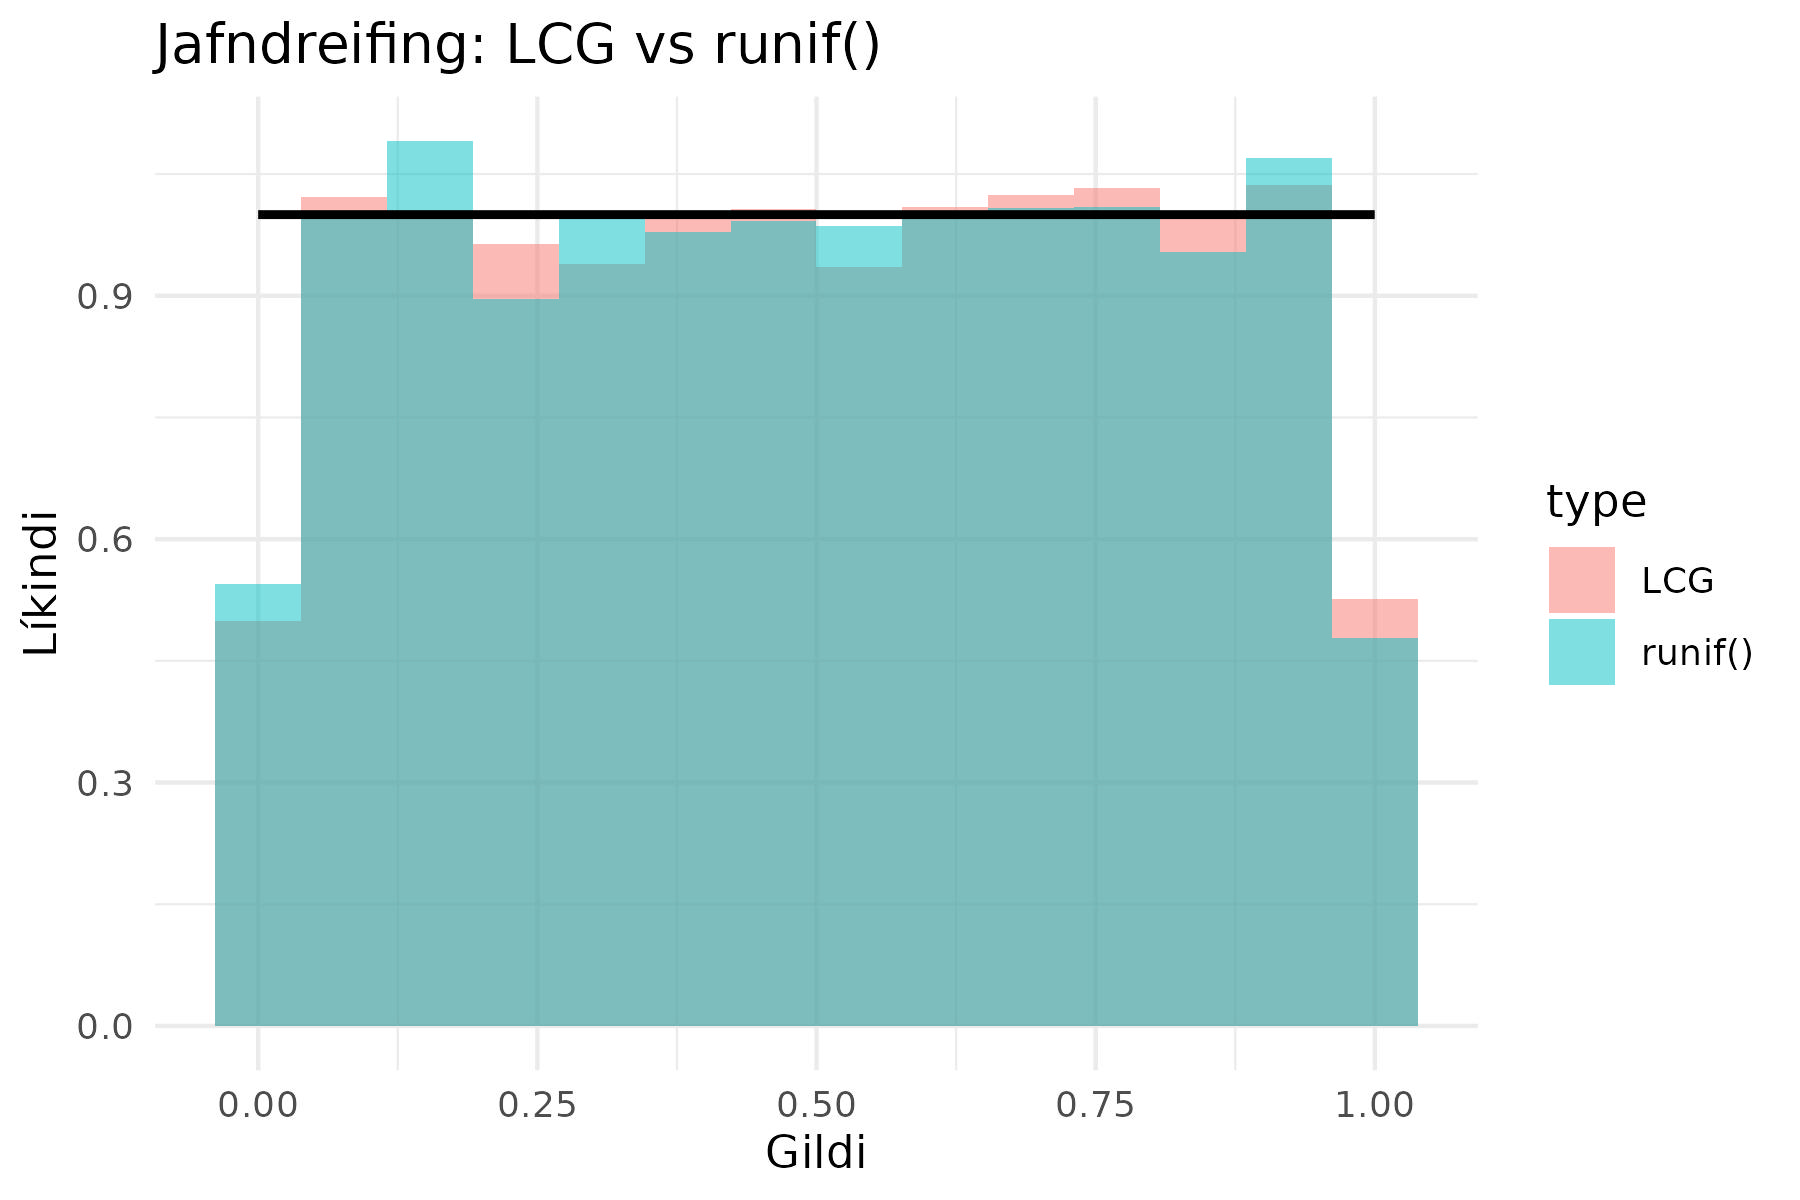
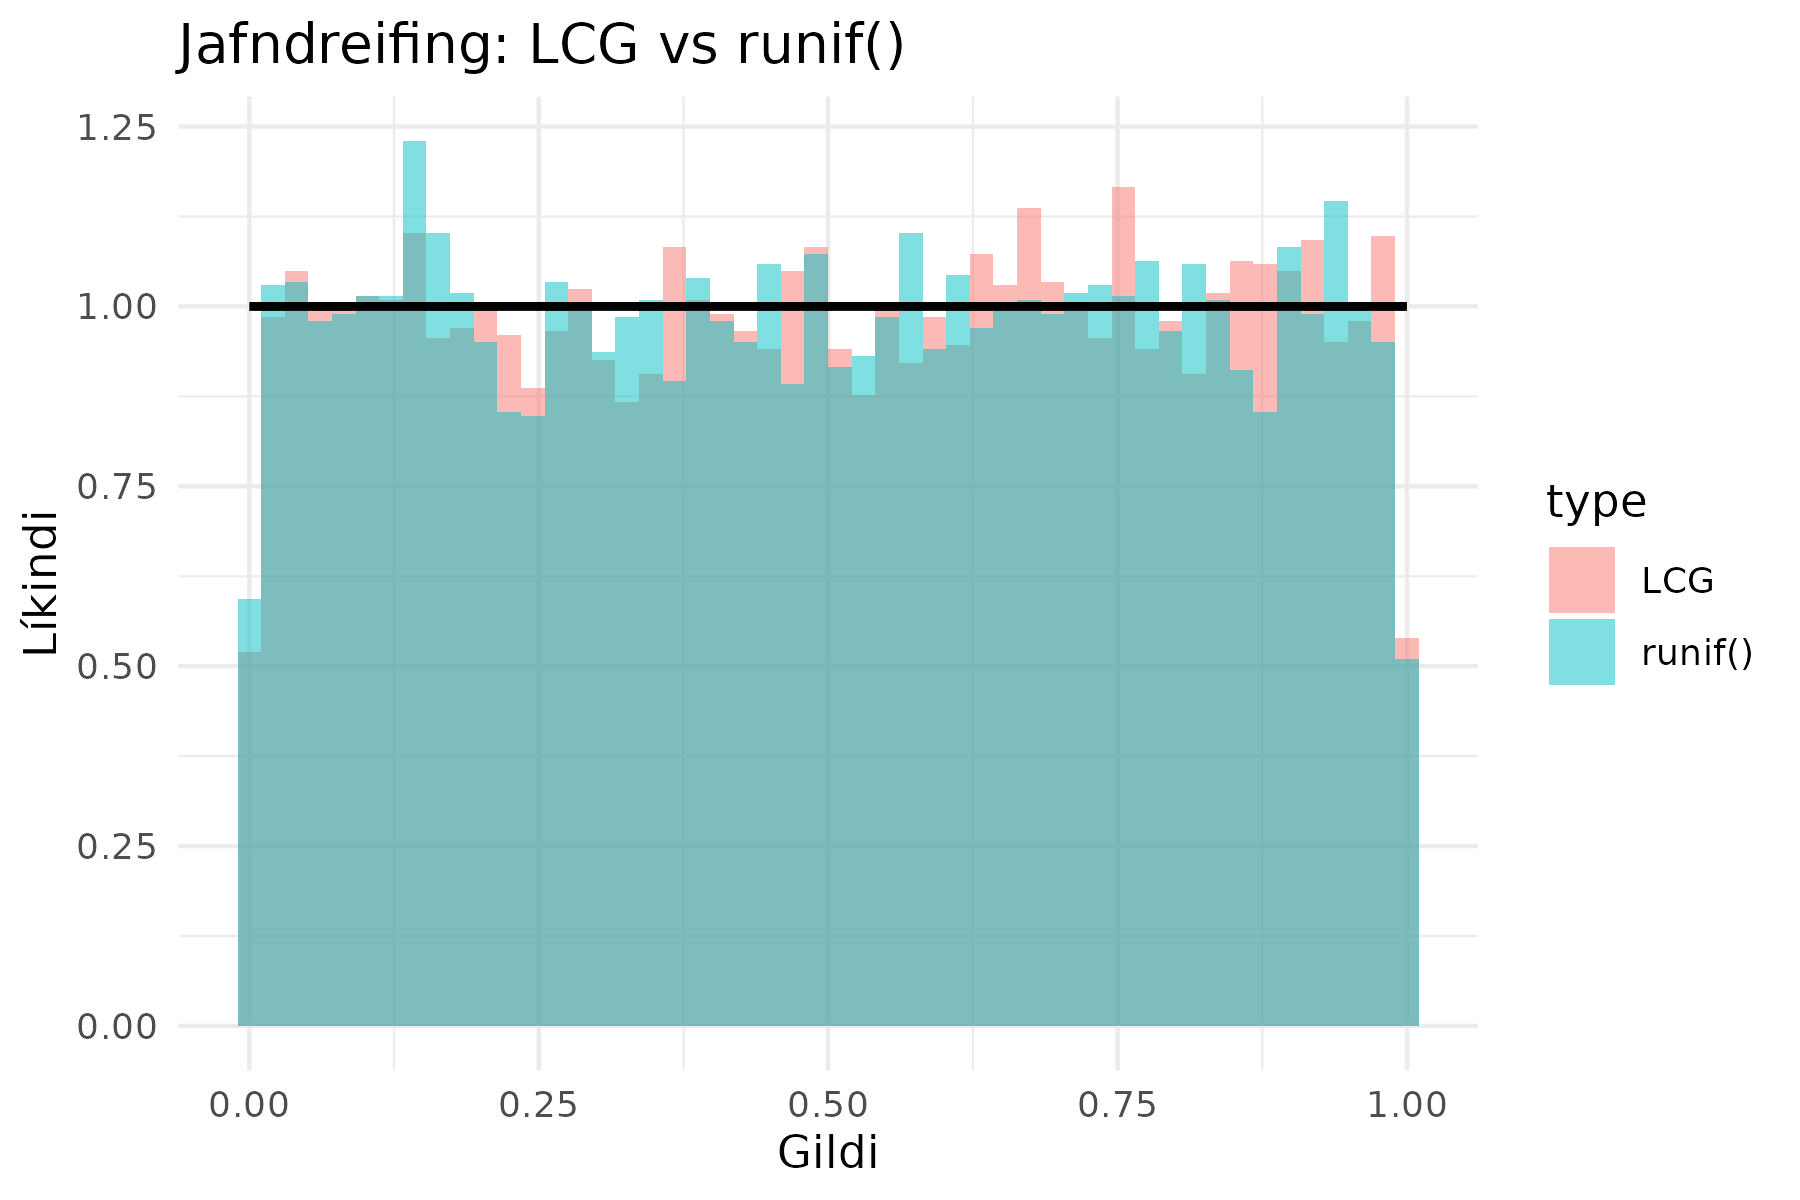
Uppfæra myndir svo stöplar séu sýnilegri

diff --git a/GitBook/random/random_variables.md b/GitBook/random/random_variables.md
@@ -97,8 +97,8 @@ umbreytt í veldisdreifingu og borin saman við `rexp()`**.
 
 ![Samanburður á veldisdreifingu](figs/expon_comparison.jpg)
 
-Myndin sýnir *samanburð á stöplariti LCG og `rexp()`*, þar sem rauða línan táknar
-fræðilega veldisdreifingu.
+Myndin sýnir *samanburð á stöplariti LCG og `rexp()`*, þar sem línan táknar fræðilega
+veldisdreifingu.
 
 ## Heimildir
 
